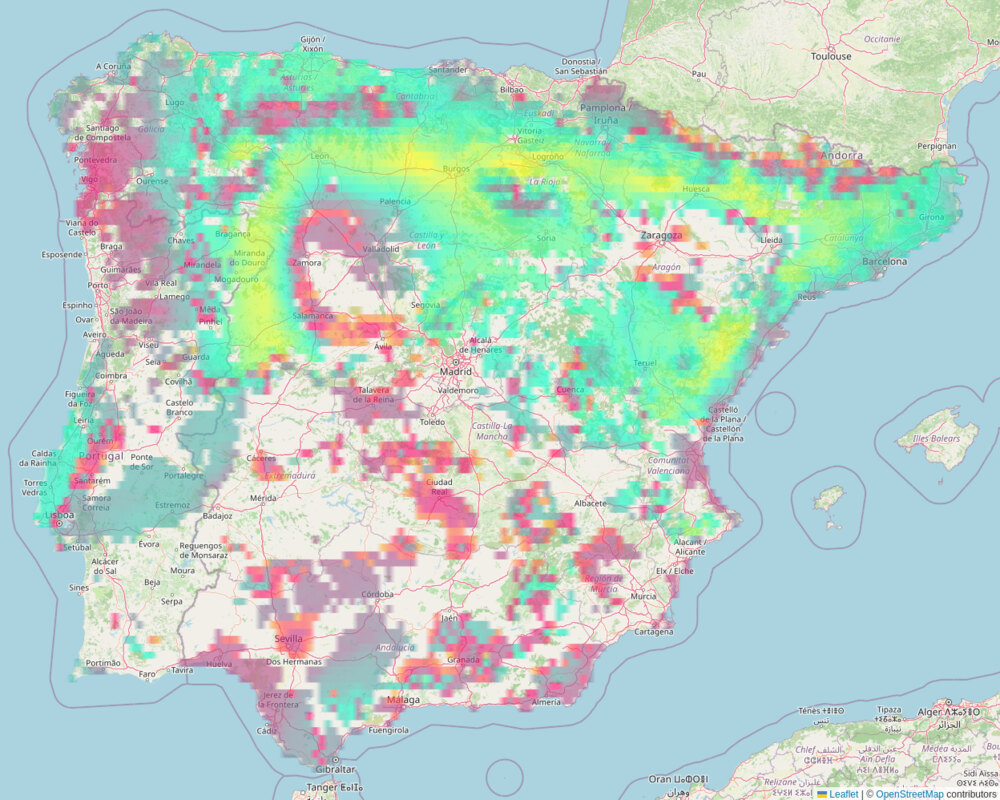
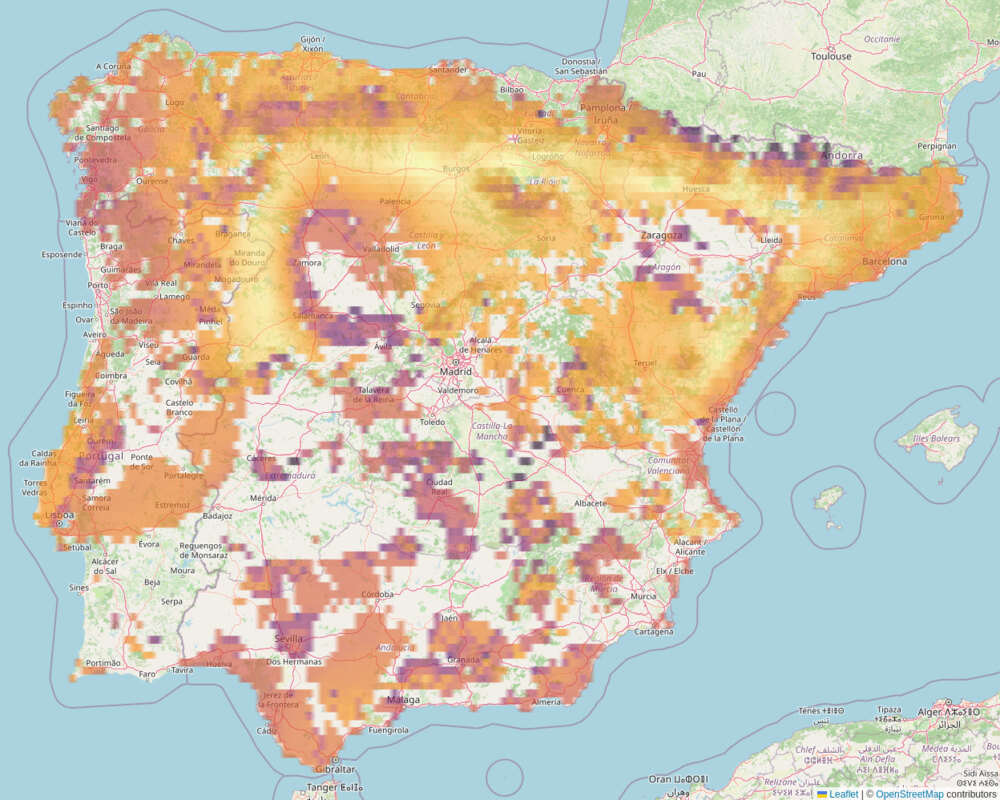
Work in progress: corridor maps in Inferno (the page's Turbo is not ordered low to high)

diff --git a/index.html b/index.html
@@ -206,12 +206,12 @@
     <div class="figs">
       <figure>
         <div class="plate"><img src="media/corridors-footprint-sp22.jpg" width="1000" height="800" loading="lazy"
-          alt="Map of the Iberian Peninsula from the NewIC5 Footprint page, densely covered by small colored grid cells in turquoise, yellow, pink and violet: the sites of the candidate corridors of one species, colored by persistence. Turquoise and yellow bands run across the north; pink and violet patches lie in the west and the south."></div>
+          alt="Map of the Iberian Peninsula from the NewIC5 Footprint page, densely covered by small colored grid cells in yellow, orange, red and purple: the sites of the candidate corridors of one species, colored by persistence. A pale yellow and orange band runs across the north; orange and purple patches lie in the west and the south."></div>
         <figcaption>Candidate corridors of one species, colored by persistence (NewIC5, Footprint page) · <a href="media/corridors-footprint-sp22.jpg">full size</a></figcaption>
       </figure>
       <figure>
         <div class="plate"><img src="media/corridors-footprint-sp288.jpg" width="1000" height="800" loading="lazy"
-          alt="The same map for another species: turquoise and yellow bands across the north, and pink, red and orange patches along the west coast, the east coast and in the south."></div>
+          alt="The same map for another species: a yellow and orange band across the north, and dark purple patches along the west coast, the east coast and in the south."></div>
         <figcaption>The same for another species. Map © OpenStreetMap contributors · <a href="media/corridors-footprint-sp288.jpg">full size</a></figcaption>
       </figure>
     </div>

diff --git a/tools/README.md b/tools/README.md
@@ -44,9 +44,9 @@ Captions follow the pages that first showed each film: the 2007 Navier–Stokes 
 The two images in the Work in progress section are the map of the Footprint page of NewIC5 (private repository `ndlopes-github/NewIC5`, not linked; web interface at commit `bfa1b1e`), captured by `tools/newic5/footprint_shot.jl` (headless Firefox over WebDriver BiDi; see its header for the setup).
 
 - Project `Proj_benchmark_60` (292 species, 8,894 sites, four periods), corridors file `generated_corridors/corridors_grid_k200_u20_2026-11-11_173907_merged.h5` (method `grid`, n = 200, usage cap U = 20; generated after the 2026-11-10 generator fix; 20,742 corridors).
-- `corridors-footprint-sp22.jpg` and `corridors-footprint-sp288.jpg`: species 22 and 288 (1-based, as in the interface), colour map Turbo, persistence range the page's default (whole range). Their corridors cover 5,419 and 5,455 sites, the most after species 292. That species was skipped: it has positive persistence (0.24 to 1.0) in all 20,742 corridors of the file, related to an open issue in NewIC5 (in Proj_PI1_60 its persistence is 1.00 in every corridor).
+- `corridors-footprint-sp22.jpg` and `corridors-footprint-sp288.jpg`: species 22 and 288 (1-based, as in the interface), colour map Inferno (dark purple low, pale yellow high), persistence range the page's default (whole range). Turbo was used first and dropped: the page's "Turbo" (NewIC5 `footprint.jl` and `map.jl`, five stops cyan, orange, pink-red, aqua, yellow) is not Turbo and is not ordered from low to high. Its Viridis and Inferno stops match the matplotlib maps. Their corridors cover 5,419 and 5,455 sites, the most after species 292. That species was skipped: it has positive persistence (0.24 to 1.0) in all 20,742 corridors of the file, related to an open issue in NewIC5 (in Proj_PI1_60 its persistence is 1.00 in every corridor).
 - Capture: map pinned at 1250×1000 px, zoom and layer buttons hidden, fitted to Iberia; the colours are the page's own (fill opacity 0.6). Then `convert -crop 1248x998+2+2 -resize 1000x -strip -sampling-factor 4:4:4 -quality 86`.
-- Run: `julia --project=<env with HTTP, JSON3> tools/newic5/footprint_shot.jl <outdir> 'grid_k200_u20.*_merged[.]h5$' <species> Turbo 1400 1100`.
+- Run: `julia --project=<env with HTTP, JSON3> tools/newic5/footprint_shot.jl <outdir> 'grid_k200_u20.*_merged[.]h5$' <species> Inferno 1400 1100`.
 - The base map is OpenStreetMap; the caption carries the attribution.
 
 ## Publications
